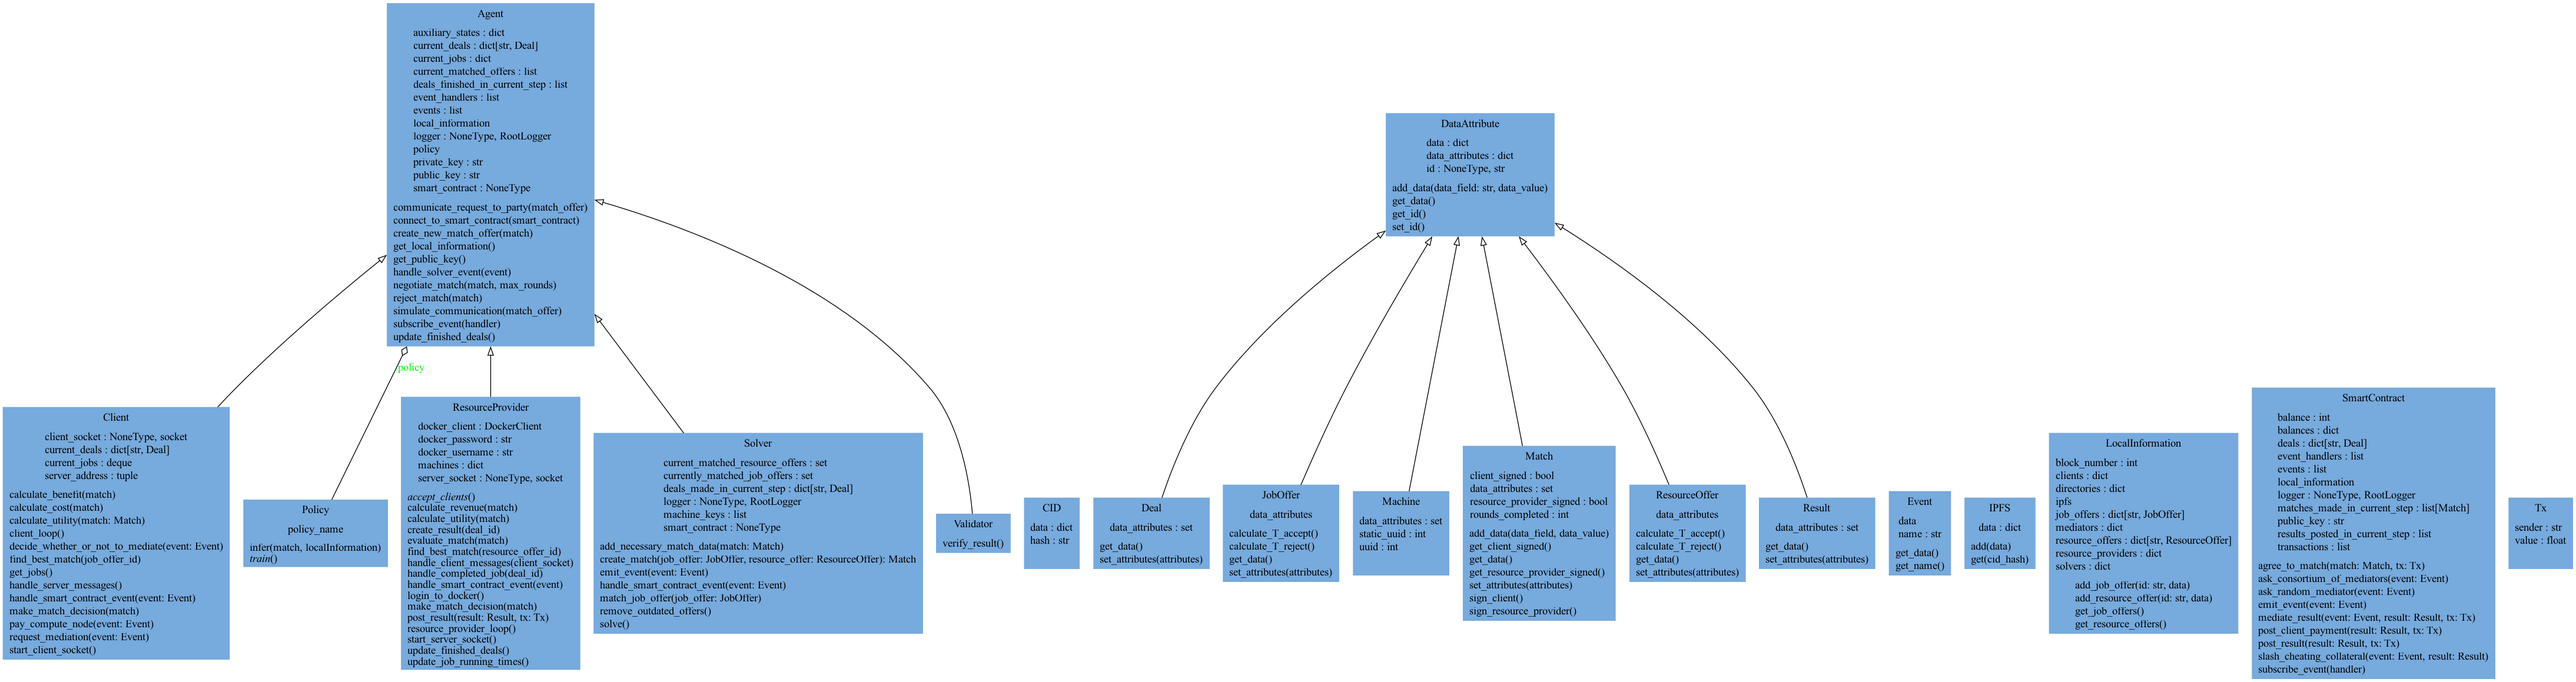
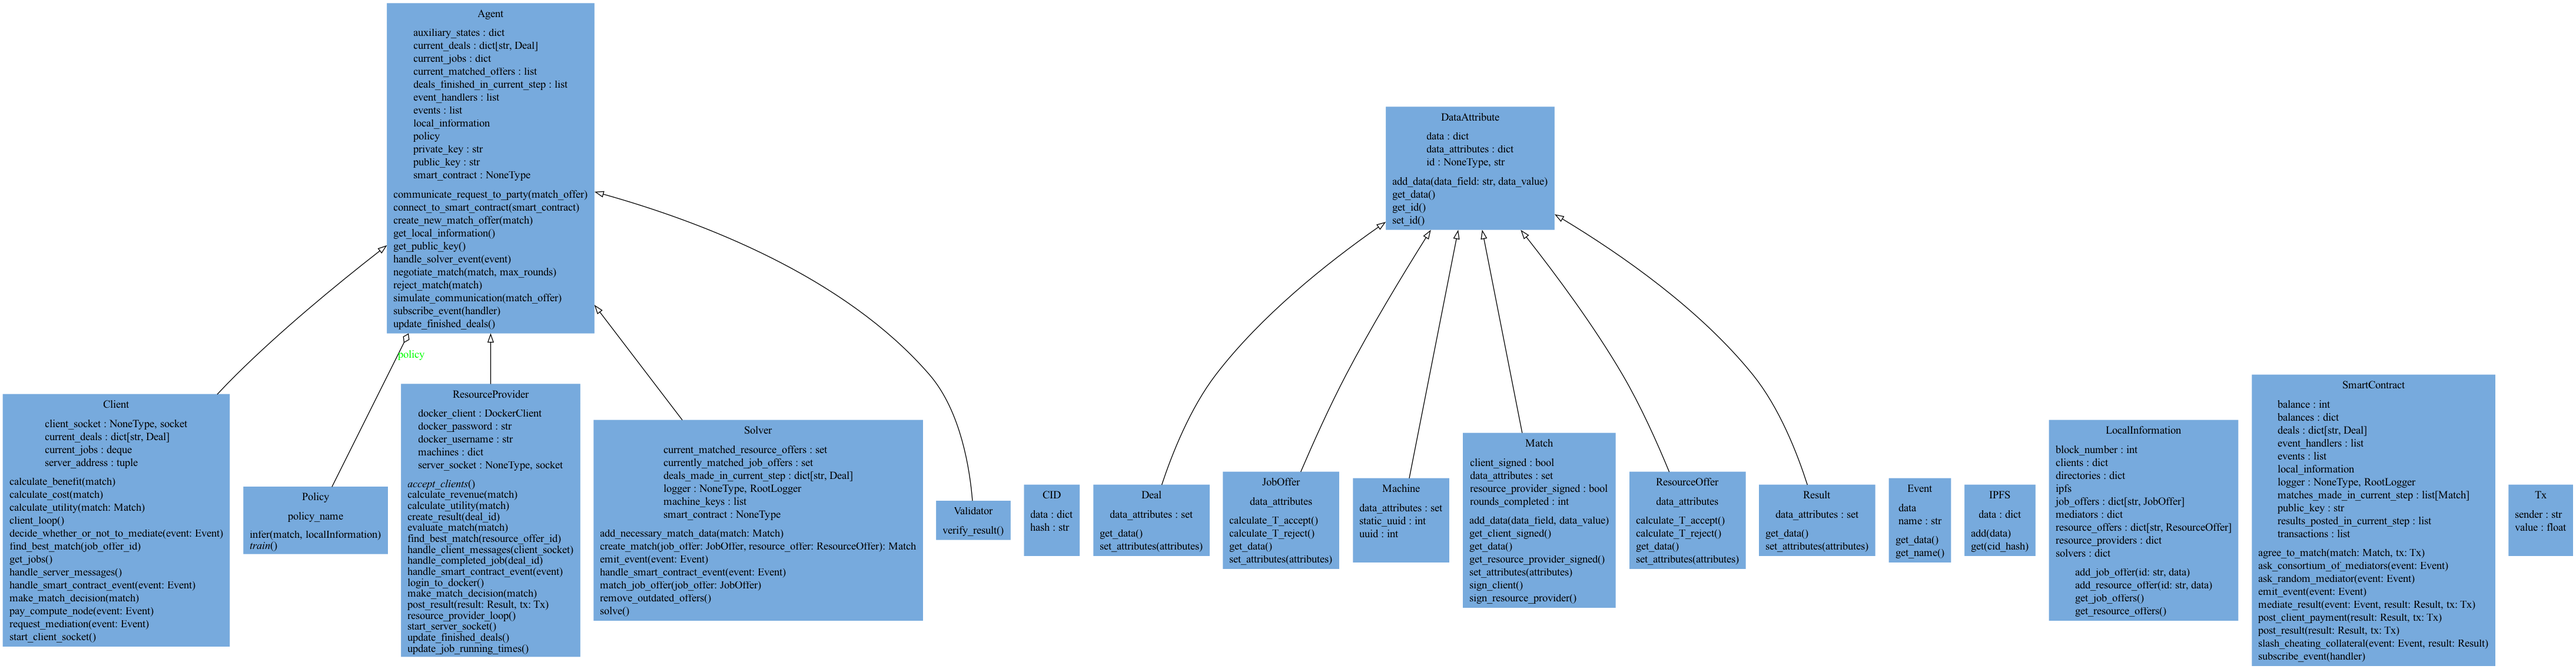
docs: agent logging

diff --git a/coophive/agent.py b/coophive/agent.py
@@ -4,17 +4,15 @@ It manage agents, their policies, their states and their actions.
 """
 
 import logging
-import os
 from dataclasses import dataclass
 
 from coophive.data_attribute import DataAttribute
 from coophive.deal import Deal
 from coophive.job_offer import JobOffer
-from coophive.log_json import log_json
 from coophive.match import Match
 from coophive.policy import Policy
 from coophive.resource_offer import ResourceOffer
-from coophive.utils import Tx, hash_dict
+from coophive.utils import Tx, hash_dict, log_json
 
 
 class Agent:
@@ -42,19 +40,16 @@ class Agent:
         self.public_key = public_key
         self.policy = policy
         self.auxiliary_states = auxiliary_states
-
         self.local_information = LocalInformation()
         self.events = []
         self.event_handlers = []
-        self.logger = logging.getLogger(f"Agent {self.public_key}")
-        logging.basicConfig(
-            filename=f"{os.getcwd()}/local_logs", filemode="w", level=logging.DEBUG
-        )
         self.smart_contract = None
         self.current_deals: dict[str, Deal] = {}
         self.current_jobs = {}
         self.current_matched_offers = []
         self.deals_finished_in_current_step = []
+
+        logging.info(f"Agent {self.public_key} initialized.")
 
     def get_public_key(self):
         """Get the public key of the agent."""
@@ -80,12 +75,12 @@ class Agent:
         """
         self.smart_contract = smart_contract
         smart_contract.subscribe_event(self.handle_smart_contract_event)
-        self.logger.info("Connected to smart contract")
+        logging.info("Connected to smart contract")
 
     def handle_solver_event(self, event):
         """Handle events from the solver."""
         event_data = {"name": event.get_name(), "id": event.get_data().get_id()}
-        self.logger.info(f"Received solver event: {event_data}")
+        logging.info(f"Received solver event: {event_data}")
 
         if event.get_name() == "match":
             match = event.get_data()
@@ -98,7 +93,7 @@ class Agent:
     # TODO: transfer functionality inside policy evaluation
     def reject_match(self, match):
         """Reject a match."""
-        self.logger.info(f"Rejected match: {match.get_id()}")
+        logging.info(f"Rejected match: {match.get_id()}")
 
     # TODO: transfer functionality inside policy evaluation
     def negotiate_match(self, match, max_rounds=5):
@@ -130,8 +125,8 @@ class Agent:
 
         response_message = "Your offer has been accepted."
 
+        logging.info("Received response from server")
         log_json(
-            self.logger,
             "Received response from server",
             {"response_message": response_message},
         )

diff --git a/coophive/utils.py b/coophive/utils.py
@@ -66,6 +66,27 @@ def setup_logger(logs_path, verbose, no_color):
     return logger
 
 
+def log_json(message, data=None):
+    """Log a message and optional data in JSON format.
+
+    Args:
+        message (str): The logging message.
+        data (dict, optional): A dictionary of additional data to be logged. Defaults to None.
+
+    The function combines the message and data into a single JSON object and logs it using the provided logger.
+    """
+    log_entry = {"message": message}
+    if data:
+        log_entry.update(data)
+
+    try:
+        # Attempt to serialize the entire log_entry and log it
+        logging.info(json.dumps(log_entry))
+    except (TypeError, ValueError) as e:
+        # Log the error if the entire log_entry is not JSON serializable
+        logging.error(f"Logging error: {e}")
+
+
 @dataclass
 class Tx:
     """Ethereum transaction metadata."""
